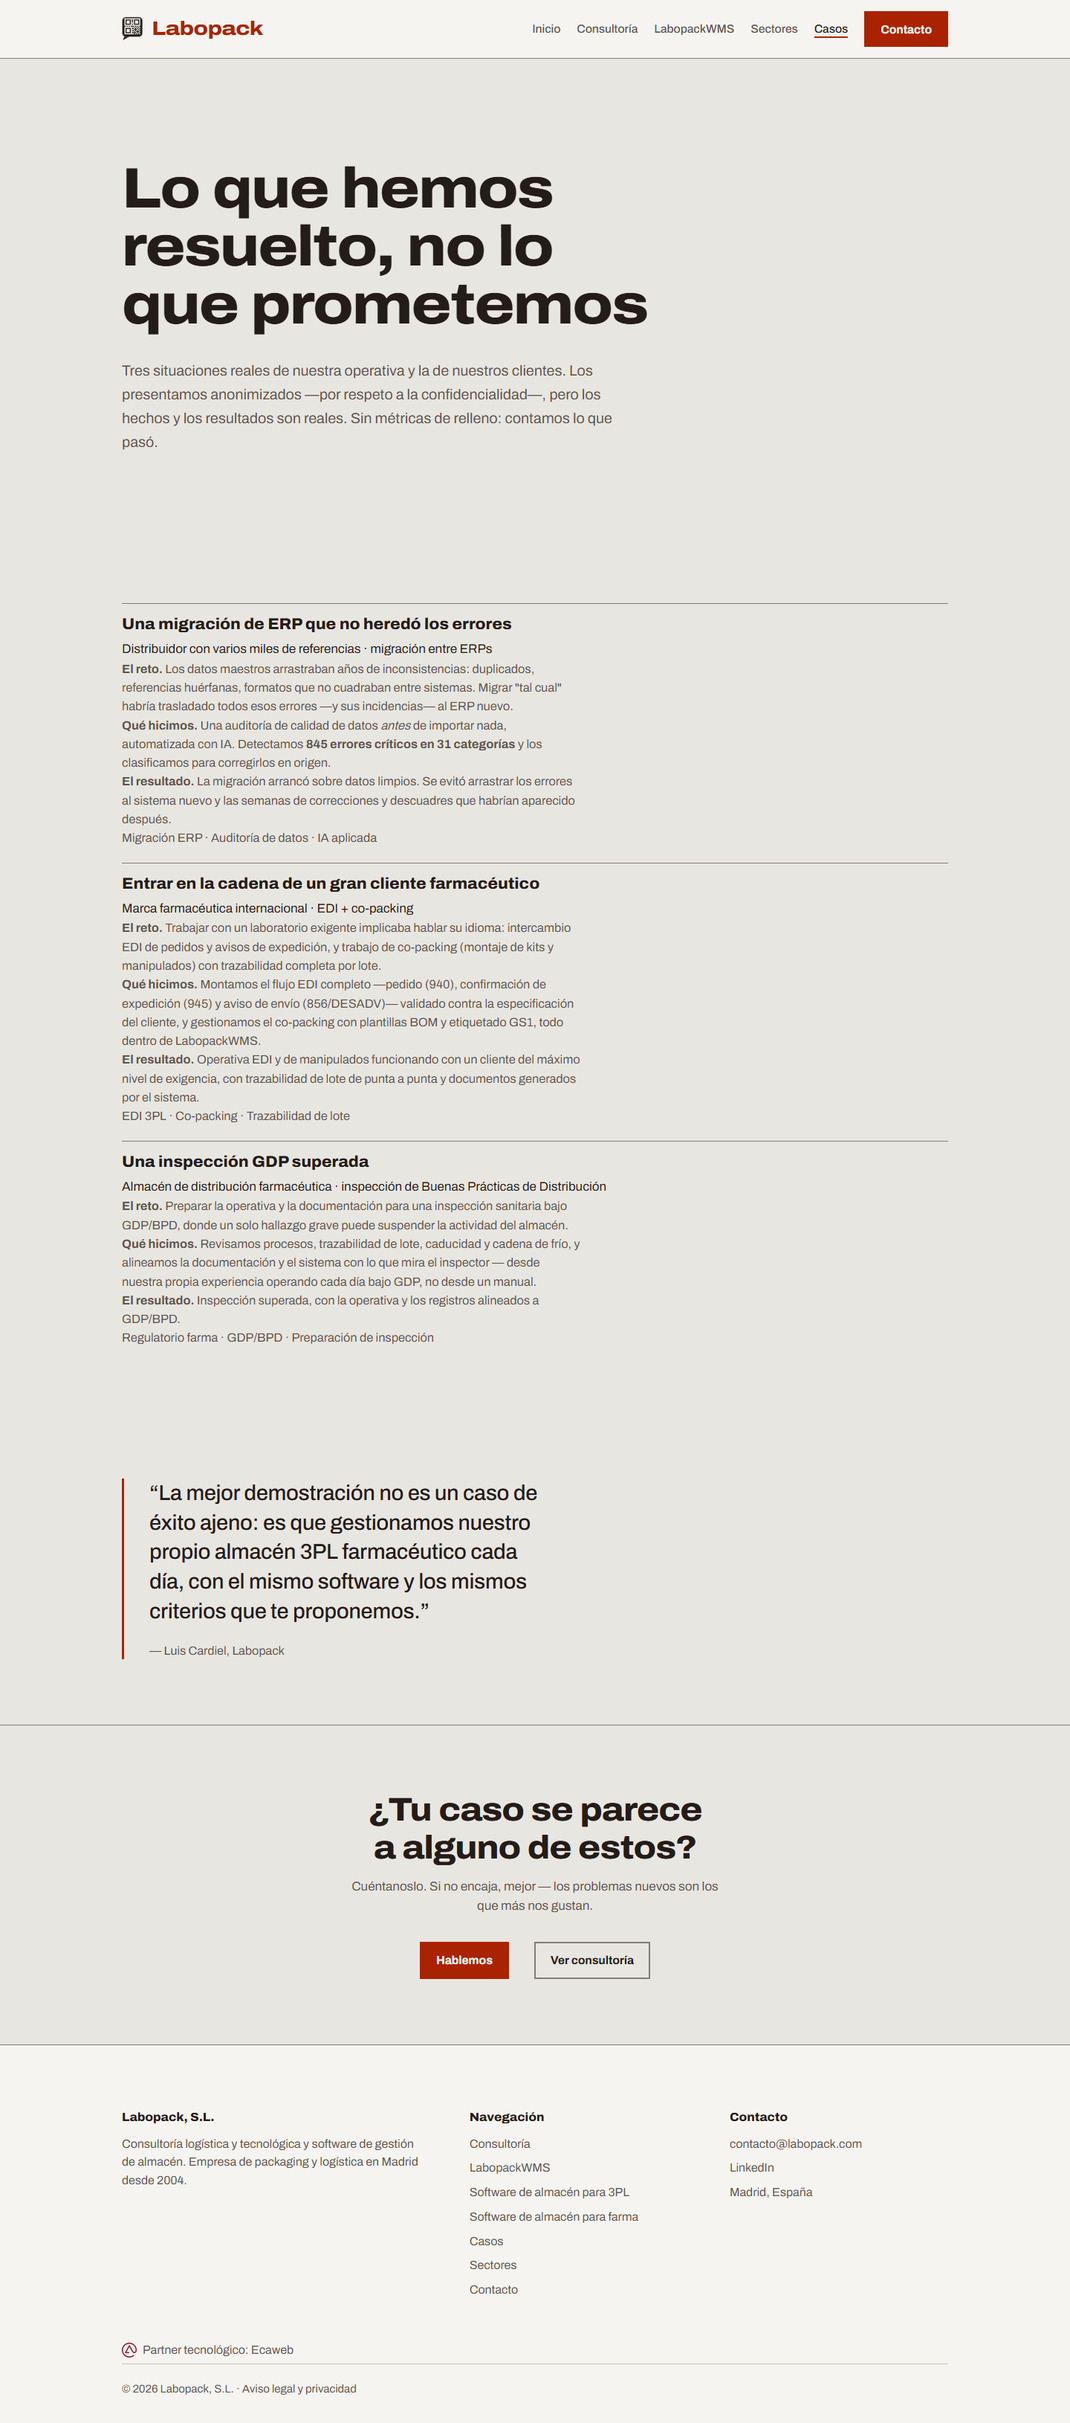
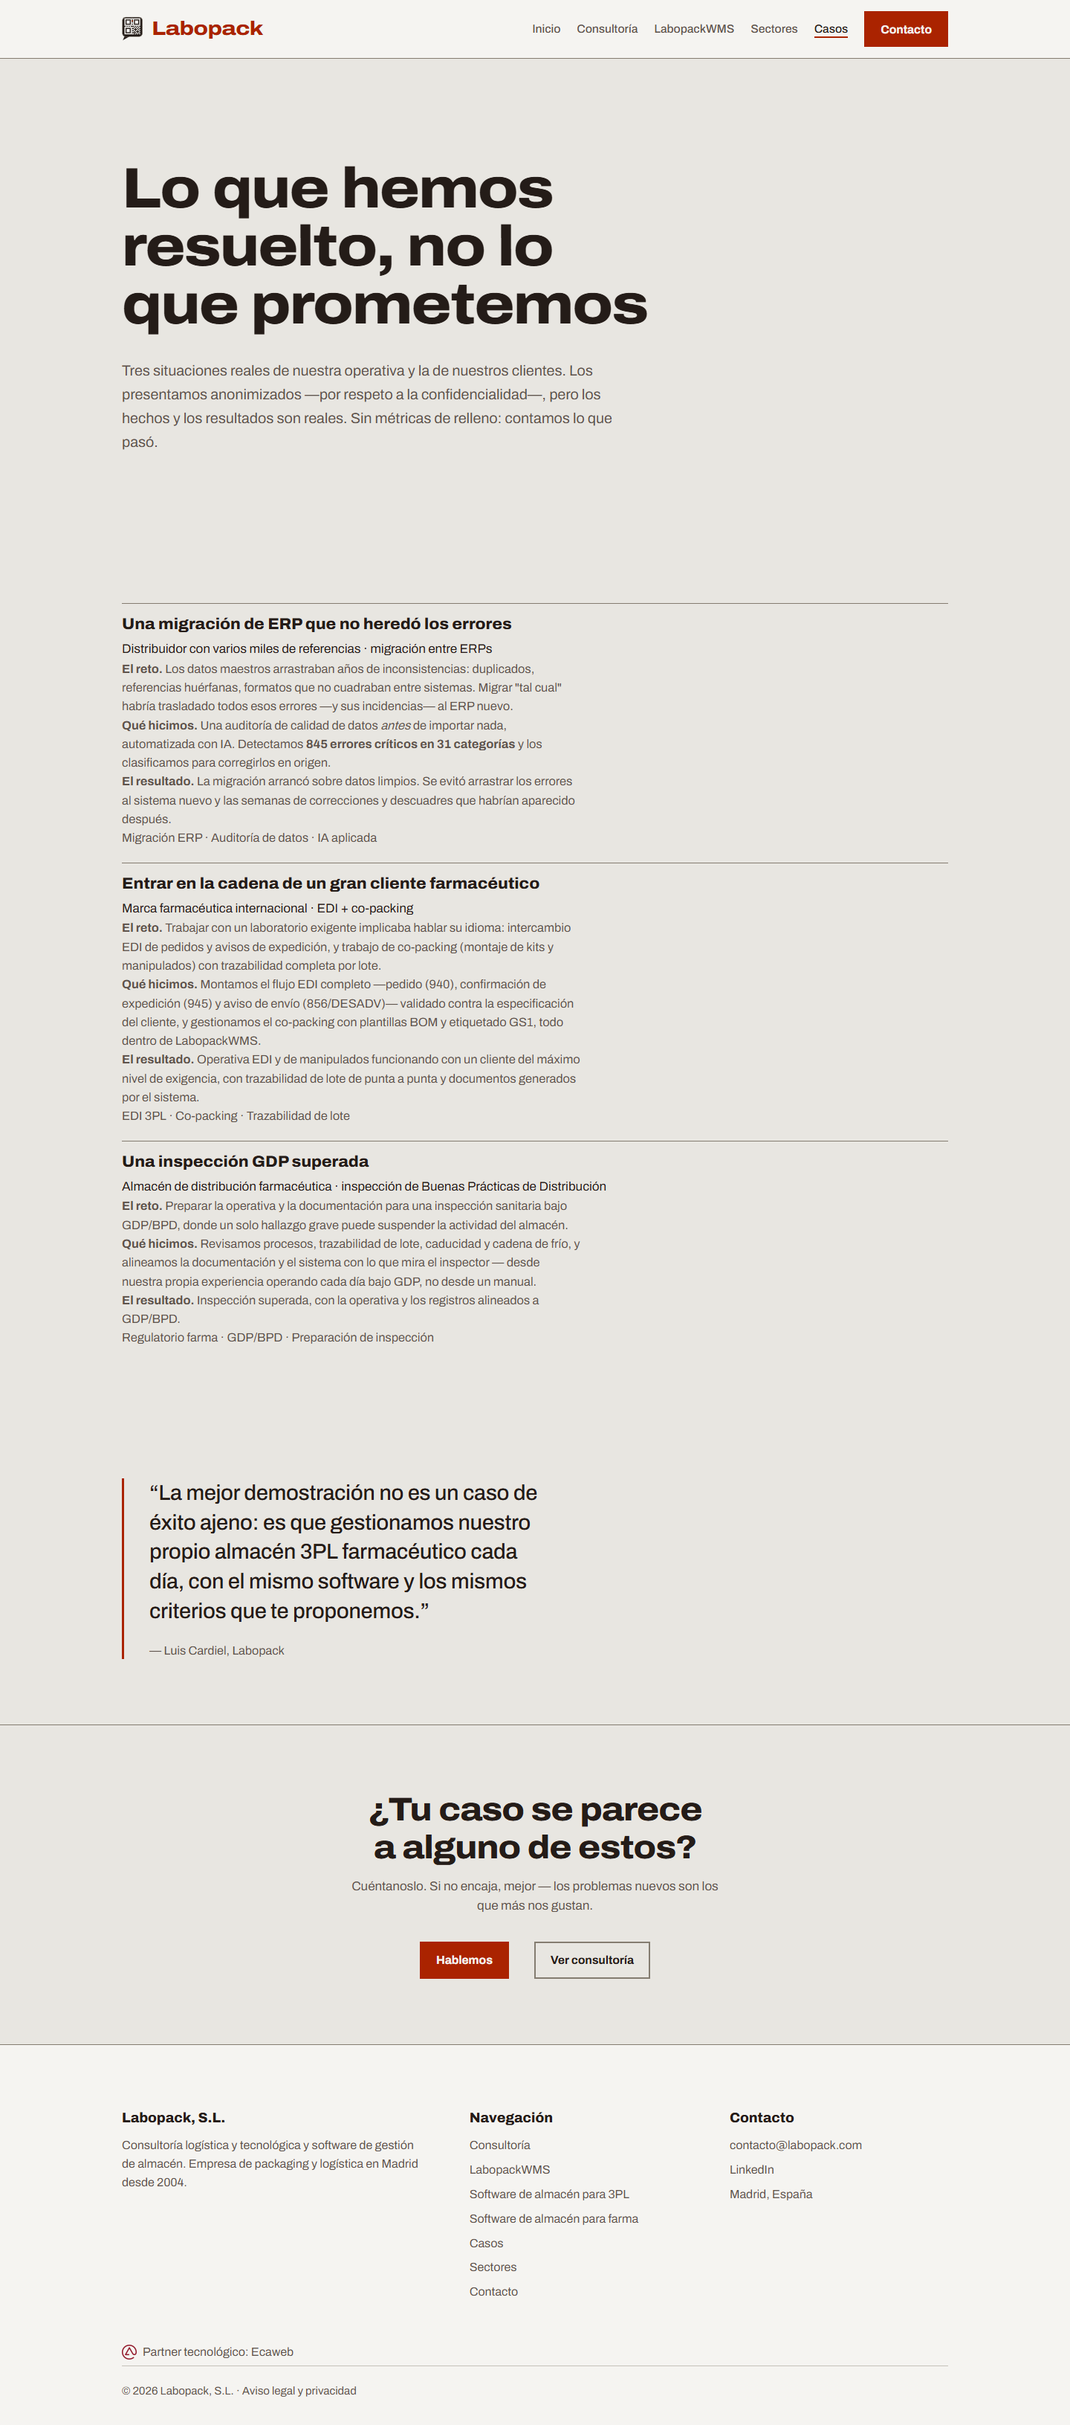
Fase 5: accesibilidad a 100 en Lighthouse movil
Tres defectos heredados de master que el umbral de la fase 5 alcanza. No los
introdujo el redisenno, pero son marcado de presentacion y entran en alcance.

- aria-hidden="true" sobre la casilla del menu, que es enfocable: contradiccion
  que axe marca. El nombre accesible pasa a la propia casilla.
- aria-label sobre un <label>, donde el atributo esta prohibido. Retirado.
- El pie saltaba de h2 a h4. Sus titulos pasan a h3.

Ademas, la casilla desaparece por completo en escritorio para que nadie tabule
a un control invisible, y vuelve en movil enfocable pero sin ocupar sitio.
Comprobado que el menu sigue abriendose con puntero y con teclado.

Lighthouse movil, home y /wms/: rendimiento 100, accesibilidad 100, SEO 100 y
buenas practicas 100.

Claude-Session: https://claude.ai/code/session_01WLjZTVEnqURzaPqYAvpt79

diff --git a/casos/index.html b/casos/index.html
@@ -26,8 +26,8 @@
 <header class="site-header">
   <div class="container nav">
     <a class="brand" href="/"><img class="brand-logo" src="/assets/logo-icono.svg" alt="" width="29" height="34" aria-hidden="true"><span class="brand-nombre">Labopack</span></a>
-    <input type="checkbox" id="nav-toggle" class="nav-toggle" aria-hidden="true">
-    <label for="nav-toggle" class="nav-toggle-label" aria-label="Abrir menú">
+    <input type="checkbox" id="nav-toggle" class="nav-toggle" aria-label="Abrir menú">
+    <label for="nav-toggle" class="nav-toggle-label">
       <span></span><span></span><span></span>
     </label>
     <ul class="nav-links">
@@ -116,12 +116,12 @@
   <div class="container">
     <div class="footer-grid">
       <div>
-        <h4>Labopack, S.L.</h4>
+        <h3>Labopack, S.L.</h3>
         <p>Consultoría logística y tecnológica y software de gestión de almacén.
         Empresa de packaging y logística en Madrid desde 2004.</p>
       </div>
       <div>
-        <h4>Navegación</h4>
+        <h3>Navegación</h3>
         <ul>
           <li><a href="/consultoria/">Consultoría</a></li>
           <li><a href="/wms/">LabopackWMS</a></li>
@@ -133,7 +133,7 @@
         </ul>
       </div>
       <div>
-        <h4>Contacto</h4>
+        <h3>Contacto</h3>
         <ul>
           <li><a href="&#109;&#97;&#105;&#108;&#116;&#111;:&#99;&#111;&#110;&#116;&#97;&#99;&#116;&#111;&#64;&#108;&#97;&#98;&#111;&#112;&#97;&#99;&#107;&#46;&#99;&#111;&#109;">&#99;&#111;&#110;&#116;&#97;&#99;&#116;&#111;&#64;&#108;&#97;&#98;&#111;&#112;&#97;&#99;&#107;&#46;&#99;&#111;&#109;</a></li>
           <li><a href="https://www.linkedin.com/in/luiscardiel" rel="noopener">LinkedIn</a></li>

diff --git a/consultoria/index.html b/consultoria/index.html
@@ -37,8 +37,8 @@
 <header class="site-header">
   <div class="container nav">
     <a class="brand" href="/"><img class="brand-logo" src="/assets/logo-icono.svg" alt="" width="29" height="34" aria-hidden="true"><span class="brand-nombre">Labopack</span></a>
-    <input type="checkbox" id="nav-toggle" class="nav-toggle" aria-hidden="true">
-    <label for="nav-toggle" class="nav-toggle-label" aria-label="Abrir menú">
+    <input type="checkbox" id="nav-toggle" class="nav-toggle" aria-label="Abrir menú">
+    <label for="nav-toggle" class="nav-toggle-label">
       <span></span><span></span><span></span>
     </label>
     <ul class="nav-links">
@@ -153,12 +153,12 @@
   <div class="container">
     <div class="footer-grid">
       <div>
-        <h4>Labopack, S.L.</h4>
+        <h3>Labopack, S.L.</h3>
         <p>Consultoría logística y tecnológica y software de gestión de almacén.
         Empresa de packaging y logística en Madrid desde 2004.</p>
       </div>
       <div>
-        <h4>Navegación</h4>
+        <h3>Navegación</h3>
         <ul>
           <li><a href="/consultoria/">Consultoría</a></li>
           <li><a href="/wms/">LabopackWMS</a></li>
@@ -170,7 +170,7 @@
         </ul>
       </div>
       <div>
-        <h4>Contacto</h4>
+        <h3>Contacto</h3>
         <ul>
           <li><a href="&#109;&#97;&#105;&#108;&#116;&#111;:&#99;&#111;&#110;&#116;&#97;&#99;&#116;&#111;&#64;&#108;&#97;&#98;&#111;&#112;&#97;&#99;&#107;&#46;&#99;&#111;&#109;">&#99;&#111;&#110;&#116;&#97;&#99;&#116;&#111;&#64;&#108;&#97;&#98;&#111;&#112;&#97;&#99;&#107;&#46;&#99;&#111;&#109;</a></li>
           <li><a href="https://www.linkedin.com/in/luiscardiel" rel="noopener">LinkedIn</a></li>

diff --git a/contacto/index.html b/contacto/index.html
@@ -34,8 +34,8 @@
 <header class="site-header">
   <div class="container nav">
     <a class="brand" href="/"><img class="brand-logo" src="/assets/logo-icono.svg" alt="" width="29" height="34" aria-hidden="true"><span class="brand-nombre">Labopack</span></a>
-    <input type="checkbox" id="nav-toggle" class="nav-toggle" aria-hidden="true">
-    <label for="nav-toggle" class="nav-toggle-label" aria-label="Abrir menú">
+    <input type="checkbox" id="nav-toggle" class="nav-toggle" aria-label="Abrir menú">
+    <label for="nav-toggle" class="nav-toggle-label">
       <span></span><span></span><span></span>
     </label>
     <ul class="nav-links">
@@ -103,12 +103,12 @@
   <div class="container">
     <div class="footer-grid">
       <div>
-        <h4>Labopack, S.L.</h4>
+        <h3>Labopack, S.L.</h3>
         <p>Consultoría logística y tecnológica y software de gestión de almacén.
         Empresa de packaging y logística en Madrid desde 2004.</p>
       </div>
       <div>
-        <h4>Navegación</h4>
+        <h3>Navegación</h3>
         <ul>
           <li><a href="/consultoria/">Consultoría</a></li>
           <li><a href="/wms/">LabopackWMS</a></li>
@@ -120,7 +120,7 @@
         </ul>
       </div>
       <div>
-        <h4>Contacto</h4>
+        <h3>Contacto</h3>
         <ul>
           <li><a href="&#109;&#97;&#105;&#108;&#116;&#111;:&#99;&#111;&#110;&#116;&#97;&#99;&#116;&#111;&#64;&#108;&#97;&#98;&#111;&#112;&#97;&#99;&#107;&#46;&#99;&#111;&#109;">&#99;&#111;&#110;&#116;&#97;&#99;&#116;&#111;&#64;&#108;&#97;&#98;&#111;&#112;&#97;&#99;&#107;&#46;&#99;&#111;&#109;</a></li>
           <li><a href="https://www.linkedin.com/in/luiscardiel" rel="noopener">LinkedIn</a></li>

diff --git a/guias/edi-para-operadores-logisticos/index.html b/guias/edi-para-operadores-logisticos/index.html
@@ -50,8 +50,8 @@
 <header class="site-header">
   <div class="container nav">
     <a class="brand" href="/"><img class="brand-logo" src="/assets/logo-icono.svg" alt="" width="29" height="34" aria-hidden="true"><span class="brand-nombre">Labopack</span></a>
-    <input type="checkbox" id="nav-toggle" class="nav-toggle" aria-hidden="true">
-    <label for="nav-toggle" class="nav-toggle-label" aria-label="Abrir menú">
+    <input type="checkbox" id="nav-toggle" class="nav-toggle" aria-label="Abrir menú">
+    <label for="nav-toggle" class="nav-toggle-label">
       <span></span><span></span><span></span>
     </label>
     <ul class="nav-links">
@@ -142,12 +142,12 @@
   <div class="container">
     <div class="footer-grid">
       <div>
-        <h4>Labopack, S.L.</h4>
+        <h3>Labopack, S.L.</h3>
         <p>Consultoría logística y tecnológica y software de gestión de almacén.
         Empresa de packaging y logística en Madrid desde 2004.</p>
       </div>
       <div>
-        <h4>Navegación</h4>
+        <h3>Navegación</h3>
         <ul>
           <li><a href="/consultoria/">Consultoría</a></li>
           <li><a href="/wms/">LabopackWMS</a></li>
@@ -159,7 +159,7 @@
         </ul>
       </div>
       <div>
-        <h4>Contacto</h4>
+        <h3>Contacto</h3>
         <ul>
           <li><a href="&#109;&#97;&#105;&#108;&#116;&#111;:&#99;&#111;&#110;&#116;&#97;&#99;&#116;&#111;&#64;&#108;&#97;&#98;&#111;&#112;&#97;&#99;&#107;&#46;&#99;&#111;&#109;">&#99;&#111;&#110;&#116;&#97;&#99;&#116;&#111;&#64;&#108;&#97;&#98;&#111;&#112;&#97;&#99;&#107;&#46;&#99;&#111;&#109;</a></li>
           <li><a href="https://www.linkedin.com/in/luiscardiel" rel="noopener">LinkedIn</a></li>

diff --git a/index.html b/index.html
@@ -52,8 +52,8 @@
 <header class="site-header">
   <div class="container nav">
     <a class="brand" href="/"><img class="brand-logo" src="/assets/logo-icono.svg" alt="" width="29" height="34" aria-hidden="true"><span class="brand-nombre">Labopack</span></a>
-    <input type="checkbox" id="nav-toggle" class="nav-toggle" aria-hidden="true">
-    <label for="nav-toggle" class="nav-toggle-label" aria-label="Abrir menú">
+    <input type="checkbox" id="nav-toggle" class="nav-toggle" aria-label="Abrir menú">
+    <label for="nav-toggle" class="nav-toggle-label">
       <span></span><span></span><span></span>
     </label>
     <ul class="nav-links">
@@ -171,12 +171,12 @@
   <div class="container">
     <div class="footer-grid">
       <div>
-        <h4>Labopack, S.L.</h4>
+        <h3>Labopack, S.L.</h3>
         <p>Consultoría logística y tecnológica y software de gestión de almacén.
         Empresa de packaging y logística en Madrid desde 2004.</p>
       </div>
       <div>
-        <h4>Navegación</h4>
+        <h3>Navegación</h3>
         <ul>
           <li><a href="/consultoria/">Consultoría</a></li>
           <li><a href="/wms/">LabopackWMS</a></li>
@@ -188,7 +188,7 @@
         </ul>
       </div>
       <div>
-        <h4>Contacto</h4>
+        <h3>Contacto</h3>
         <ul>
           <li><a href="&#109;&#97;&#105;&#108;&#116;&#111;:&#99;&#111;&#110;&#116;&#97;&#99;&#116;&#111;&#64;&#108;&#97;&#98;&#111;&#112;&#97;&#99;&#107;&#46;&#99;&#111;&#109;">&#99;&#111;&#110;&#116;&#97;&#99;&#116;&#111;&#64;&#108;&#97;&#98;&#111;&#112;&#97;&#99;&#107;&#46;&#99;&#111;&#109;</a></li>
           <li><a href="https://www.linkedin.com/in/luiscardiel" rel="noopener">LinkedIn</a></li>

diff --git a/sectores/index.html b/sectores/index.html
@@ -25,8 +25,8 @@
 <header class="site-header">
   <div class="container nav">
     <a class="brand" href="/"><img class="brand-logo" src="/assets/logo-icono.svg" alt="" width="29" height="34" aria-hidden="true"><span class="brand-nombre">Labopack</span></a>
-    <input type="checkbox" id="nav-toggle" class="nav-toggle" aria-hidden="true">
-    <label for="nav-toggle" class="nav-toggle-label" aria-label="Abrir menú">
+    <input type="checkbox" id="nav-toggle" class="nav-toggle" aria-label="Abrir menú">
+    <label for="nav-toggle" class="nav-toggle-label">
       <span></span><span></span><span></span>
     </label>
     <ul class="nav-links">
@@ -118,12 +118,12 @@
   <div class="container">
     <div class="footer-grid">
       <div>
-        <h4>Labopack, S.L.</h4>
+        <h3>Labopack, S.L.</h3>
         <p>Consultoría logística y tecnológica y software de gestión de almacén.
         Empresa de packaging y logística en Madrid desde 2004.</p>
       </div>
       <div>
-        <h4>Navegación</h4>
+        <h3>Navegación</h3>
         <ul>
           <li><a href="/consultoria/">Consultoría</a></li>
           <li><a href="/wms/">LabopackWMS</a></li>
@@ -135,7 +135,7 @@
         </ul>
       </div>
       <div>
-        <h4>Contacto</h4>
+        <h3>Contacto</h3>
         <ul>
           <li><a href="&#109;&#97;&#105;&#108;&#116;&#111;:&#99;&#111;&#110;&#116;&#97;&#99;&#116;&#111;&#64;&#108;&#97;&#98;&#111;&#112;&#97;&#99;&#107;&#46;&#99;&#111;&#109;">&#99;&#111;&#110;&#116;&#97;&#99;&#116;&#111;&#64;&#108;&#97;&#98;&#111;&#112;&#97;&#99;&#107;&#46;&#99;&#111;&#109;</a></li>
           <li><a href="https://www.linkedin.com/in/luiscardiel" rel="noopener">LinkedIn</a></li>

diff --git a/wms/3pl/index.html b/wms/3pl/index.html
@@ -49,8 +49,8 @@
 <header class="site-header">
   <div class="container nav">
     <a class="brand" href="/"><img class="brand-logo" src="/assets/logo-icono.svg" alt="" width="29" height="34" aria-hidden="true"><span class="brand-nombre">Labopack</span></a>
-    <input type="checkbox" id="nav-toggle" class="nav-toggle" aria-hidden="true">
-    <label for="nav-toggle" class="nav-toggle-label" aria-label="Abrir menú">
+    <input type="checkbox" id="nav-toggle" class="nav-toggle" aria-label="Abrir menú">
+    <label for="nav-toggle" class="nav-toggle-label">
       <span></span><span></span><span></span>
     </label>
     <ul class="nav-links">
@@ -156,12 +156,12 @@
   <div class="container">
     <div class="footer-grid">
       <div>
-        <h4>Labopack, S.L.</h4>
+        <h3>Labopack, S.L.</h3>
         <p>Consultoría logística y tecnológica y software de gestión de almacén.
         Empresa de packaging y logística en Madrid desde 2004.</p>
       </div>
       <div>
-        <h4>Navegación</h4>
+        <h3>Navegación</h3>
         <ul>
           <li><a href="/consultoria/">Consultoría</a></li>
           <li><a href="/wms/">LabopackWMS</a></li>
@@ -173,7 +173,7 @@
         </ul>
       </div>
       <div>
-        <h4>Contacto</h4>
+        <h3>Contacto</h3>
         <ul>
           <li><a href="&#109;&#97;&#105;&#108;&#116;&#111;:&#99;&#111;&#110;&#116;&#97;&#99;&#116;&#111;&#64;&#108;&#97;&#98;&#111;&#112;&#97;&#99;&#107;&#46;&#99;&#111;&#109;">&#99;&#111;&#110;&#116;&#97;&#99;&#116;&#111;&#64;&#108;&#97;&#98;&#111;&#112;&#97;&#99;&#107;&#46;&#99;&#111;&#109;</a></li>
           <li><a href="https://www.linkedin.com/in/luiscardiel" rel="noopener">LinkedIn</a></li>

diff --git a/wms/farma/index.html b/wms/farma/index.html
@@ -49,8 +49,8 @@
 <header class="site-header">
   <div class="container nav">
     <a class="brand" href="/"><img class="brand-logo" src="/assets/logo-icono.svg" alt="" width="29" height="34" aria-hidden="true"><span class="brand-nombre">Labopack</span></a>
-    <input type="checkbox" id="nav-toggle" class="nav-toggle" aria-hidden="true">
-    <label for="nav-toggle" class="nav-toggle-label" aria-label="Abrir menú">
+    <input type="checkbox" id="nav-toggle" class="nav-toggle" aria-label="Abrir menú">
+    <label for="nav-toggle" class="nav-toggle-label">
       <span></span><span></span><span></span>
     </label>
     <ul class="nav-links">
@@ -156,12 +156,12 @@
   <div class="container">
     <div class="footer-grid">
       <div>
-        <h4>Labopack, S.L.</h4>
+        <h3>Labopack, S.L.</h3>
         <p>Consultoría logística y tecnológica y software de gestión de almacén.
         Empresa de packaging y logística en Madrid desde 2004.</p>
       </div>
       <div>
-        <h4>Navegación</h4>
+        <h3>Navegación</h3>
         <ul>
           <li><a href="/consultoria/">Consultoría</a></li>
           <li><a href="/wms/">LabopackWMS</a></li>
@@ -173,7 +173,7 @@
         </ul>
       </div>
       <div>
-        <h4>Contacto</h4>
+        <h3>Contacto</h3>
         <ul>
           <li><a href="&#109;&#97;&#105;&#108;&#116;&#111;:&#99;&#111;&#110;&#116;&#97;&#99;&#116;&#111;&#64;&#108;&#97;&#98;&#111;&#112;&#97;&#99;&#107;&#46;&#99;&#111;&#109;">&#99;&#111;&#110;&#116;&#97;&#99;&#116;&#111;&#64;&#108;&#97;&#98;&#111;&#112;&#97;&#99;&#107;&#46;&#99;&#111;&#109;</a></li>
           <li><a href="https://www.linkedin.com/in/luiscardiel" rel="noopener">LinkedIn</a></li>

diff --git a/wms/index.html b/wms/index.html
@@ -61,8 +61,8 @@
 <header class="site-header">
   <div class="container nav">
     <a class="brand" href="/"><img class="brand-logo" src="/assets/logo-icono.svg" alt="" width="29" height="34" aria-hidden="true"><span class="brand-nombre">Labopack</span></a>
-    <input type="checkbox" id="nav-toggle" class="nav-toggle" aria-hidden="true">
-    <label for="nav-toggle" class="nav-toggle-label" aria-label="Abrir menú">
+    <input type="checkbox" id="nav-toggle" class="nav-toggle" aria-label="Abrir menú">
+    <label for="nav-toggle" class="nav-toggle-label">
       <span></span><span></span><span></span>
     </label>
     <ul class="nav-links">
@@ -417,12 +417,12 @@
   <div class="container">
     <div class="footer-grid">
       <div>
-        <h4>Labopack, S.L.</h4>
+        <h3>Labopack, S.L.</h3>
         <p>Consultoría logística y tecnológica y software de gestión de almacén.
         Empresa de packaging y logística en Madrid desde 2004.</p>
       </div>
       <div>
-        <h4>Navegación</h4>
+        <h3>Navegación</h3>
         <ul>
           <li><a href="/consultoria/">Consultoría</a></li>
           <li><a href="/wms/">LabopackWMS</a></li>
@@ -434,7 +434,7 @@
         </ul>
       </div>
       <div>
-        <h4>Contacto</h4>
+        <h3>Contacto</h3>
         <ul>
           <li><a href="&#109;&#97;&#105;&#108;&#116;&#111;:&#99;&#111;&#110;&#116;&#97;&#99;&#116;&#111;&#64;&#108;&#97;&#98;&#111;&#112;&#97;&#99;&#107;&#46;&#99;&#111;&#109;">&#99;&#111;&#110;&#116;&#97;&#99;&#116;&#111;&#64;&#108;&#97;&#98;&#111;&#112;&#97;&#99;&#107;&#46;&#99;&#111;&#109;</a></li>
           <li><a href="https://www.linkedin.com/in/luiscardiel" rel="noopener">LinkedIn</a></li>

diff --git a/assets/styles.css b/assets/styles.css
@@ -136,8 +136,10 @@ img { max-width: 100%; height: auto; }
 .nav-links a:not(.btn)[aria-current] { color: var(--tinta); border-bottom-color: var(--teja); }
 .nav-links a.btn { border-bottom: 0; }
 
-/* Menú de móvil sin JavaScript: una casilla oculta gobierna el desplegable. */
-.nav-toggle { position: absolute; opacity: 0; pointer-events: none; }
+/* Menú de móvil sin JavaScript: una casilla gobierna el desplegable.
+   En escritorio desaparece del todo para que nadie tabule a un control
+   invisible; en móvil vuelve, enfocable pero sin ocupar sitio. */
+.nav-toggle { display: none; }
 .nav-toggle-label { display: none; }
 
 /* ---------- Botones y enlaces de acción ---------- */
@@ -568,6 +570,13 @@ section.cifras { padding-top: 0; }
   .stat { padding: var(--e3) 0; }
 
   /* Menú desplegable gobernado por la casilla. */
+  .nav-toggle {
+    display: block;
+    position: absolute;
+    width: 1px; height: 1px;
+    opacity: 0;
+    margin: 0;
+  }
   .nav-toggle-label {
     display: flex;
     flex-direction: column;

diff --git a/aviso-legal/index.html b/aviso-legal/index.html
@@ -16,8 +16,8 @@
 <header class="site-header">
   <div class="container nav">
     <a class="brand" href="/"><img class="brand-logo" src="/assets/logo-icono.svg" alt="" width="29" height="34" aria-hidden="true"><span class="brand-nombre">Labopack</span></a>
-    <input type="checkbox" id="nav-toggle" class="nav-toggle" aria-hidden="true">
-    <label for="nav-toggle" class="nav-toggle-label" aria-label="Abrir menú">
+    <input type="checkbox" id="nav-toggle" class="nav-toggle" aria-label="Abrir menú">
+    <label for="nav-toggle" class="nav-toggle-label">
       <span></span><span></span><span></span>
     </label>
     <ul class="nav-links">
